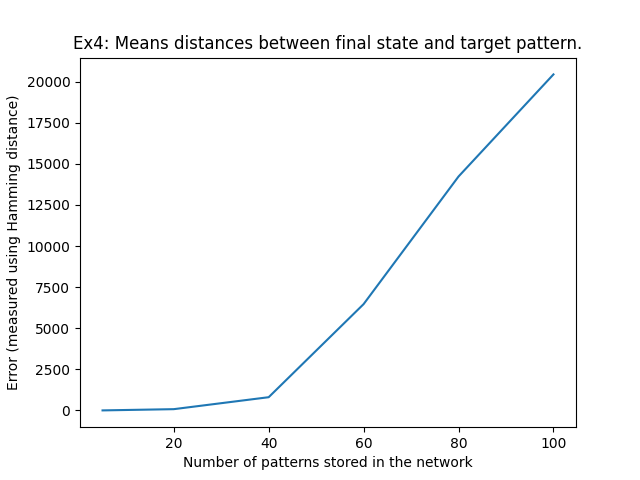
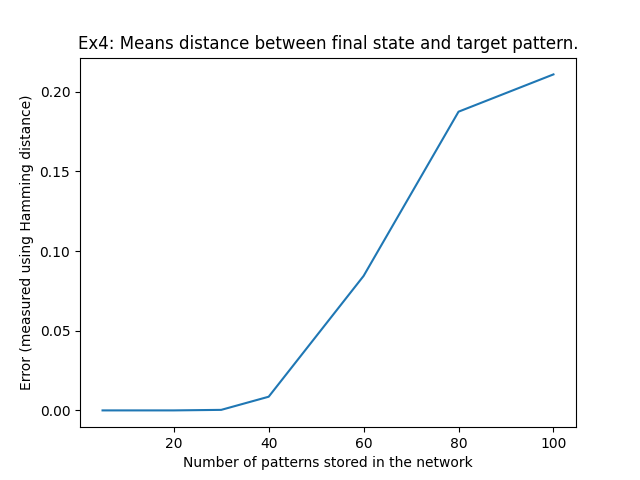
Exercises 1 to 5 corrected

diff --git a/Part1/run.py b/Part1/run.py
@@ -55,7 +55,7 @@ def ex2():
         assert pattern1.shape == pattern2.shape, "Shapes of the patterns do not match!"
 
         N = np.prod(pattern1.shape)
-        return (N - np.dot(pattern1.flatten(), pattern2.flatten())) / 2*N
+        return (N - np.dot(pattern1.flatten(), pattern2.flatten())) / (2*N)
 
     return compute_hamming_distance
 
@@ -93,7 +93,7 @@ def ex3(net, stored_patterns, distance_function, selected_pattern_id=None):
     return distances, correctly_retrieved, selected_pattern_id
 
 
-def ex4(net, distance_function, m_vals=(5, 20, 40, 60, 80, 100), n_runs=6, plot=True):
+def ex4(net, distance_function, m_vals=(5, 20, 30, 40, 60, 80, 100), n_runs=6, tol=0.05, is_ex4=True):
     """
     Computes for each value of m the mean distance between the final state of the network and the target pattern, and
     plot the results if plot == True.
@@ -112,11 +112,12 @@ def ex4(net, distance_function, m_vals=(5, 20, 40, 60, 80, 100), n_runs=6, plot=
     :param distance_function: distance function to use
     :param m_vals: List of different values for m
     :param n_runs: Number of runs to reach the state to compare with the target pattern
-    :param plot: Whether to plot and save the plot or not
-    :return: mean distances
+    :param tol: Percentage of error tolerance for retrieving patterns correctly
+    :param is_ex4: Whether we are running exercise 4 or not (we are reusing ex4 in ex5, but do not need all computations)
+    :return: mean distances, m max if is_ex4, means otherwise
     """
 
-    def compute_mean_distance(n_patterns):
+    def compute_distances(n_patterns):
         network, random_patterns = generate_and_store_random_patterns(net, n_patterns)
         distances = np.zeros(n_patterns)
         n_flips = 15  # 5% of 300
@@ -126,19 +127,34 @@ def ex4(net, distance_function, m_vals=(5, 20, 40, 60, 80, 100), n_runs=6, plot=
             network.run(n_runs)
             final_state = network.state
             distances[i] = distance_function(final_state, np.squeeze(pattern))
-        return np.mean(distances)
+        return distances
 
-    means = np.array([compute_mean_distance(m) for m in m_vals])
+    distances = [compute_distances(m) for m in m_vals]
+    means = np.array([np.mean(distance) for distance in distances])
 
-    if plot:
+    if is_ex4:
+        correctly_retrieved = [distance <= 0.05 for distance in distances]
+        correctly_retrieved_percentage = np.array([np.count_nonzero(item) / len(item) for item in correctly_retrieved])
+
         plt.plot(m_vals, means)
-        plt.title("Ex4: Means distances between final state and target pattern.")
+        plt.title("Ex4: Means distance between final state and target pattern.")
         plt.xlabel("Number of patterns stored in the network")
         plt.ylabel("Error (measured using Hamming distance)")
         plt.savefig("plots/ex4.png")
         plt.show()
 
-    return means
+        plt.plot(m_vals, correctly_retrieved_percentage)
+        plt.title("Ex4: Percentage of correctly retrieved patterns.")
+        plt.xlabel("Number of patterns stored in the network")
+        plt.ylabel("Percentage of correctly retrieved patterns")
+        plt.savefig("plots/ex4_percentage.png")
+        plt.show()
+
+        m_max = np.array(m_vals)[correctly_retrieved_percentage > (1 - tol)][-1]
+        return means, m_max
+
+    else:
+        return means
 
 
 def ex5(net, distance_function, n_trials=8):
@@ -150,13 +166,13 @@ def ex5(net, distance_function, n_trials=8):
     :return: mean of means, std of means
     """
 
-    m_vals = (5, 20, 40, 60, 80, 100)
-    means = np.array([ex4(net, distance_function, m_vals=m_vals, plot=False) for _ in range(n_trials)])
+    m_vals = (5, 20, 30, 40, 60, 80, 100)
+    means = np.stack([ex4(net, distance_function, m_vals=m_vals, isex4=False) for _ in range(n_trials)])
     mean_of_means = np.mean(means, axis=0)
-    std_of_means = np.std(means, axis=0)  # TODO: change if needed according to TA answers
+    std_of_means = np.std(means, axis=0)
 
     plt.errorbar(m_vals, mean_of_means, yerr=std_of_means)
-    plt.title("Ex5: Means distances with errorbars between final state and target pattern.")
+    plt.title("Ex5: Means distance with errorbars between final state and target pattern.")
     plt.xlabel("Number of patterns stored in the network")
     plt.ylabel("Error (measured using Hamming distance)")
     plt.savefig("plots/ex5.png")
@@ -165,16 +181,24 @@ def ex5(net, distance_function, n_trials=8):
     return mean_of_means, std_of_means
 
 
+def ex7():
+    """"""
+
+    # For each network size between 50 and 1000:
+    #   - create a network of this size
+    #   - for 4 different sizes:
+    #       - ...
+    #   - Compute the capacity
+
+    # Note from TA: function of network size
+
+    raise NotImplementedError
+
+
 if __name__ == "__main__":
     net, stored_patterns = ex1()
     compute_hamming_distance = ex2()  # TODO: answer theory question of ex2
     distances, correctly_retrieved, selected_pattern_id = ex3(net, stored_patterns, compute_hamming_distance)
-    means = ex4(net, compute_hamming_distance)  # TODO: answer theory question of ex4
+    means, m_max = ex4(net, compute_hamming_distance)  # TODO: answer theory question of ex4
     mean_of_means, std_of_means = ex5(net, compute_hamming_distance)
-
-
-# Questions for the TAs:
-# - Ex4: "what is the maximum number of patterns that can be retrieved?" What kind of answer is expected from us there?
-#   A theory answer or a computational answer?
-# - Ex5: Which error bars are you expecting? min/max? std? 95% confidence interval?
 
